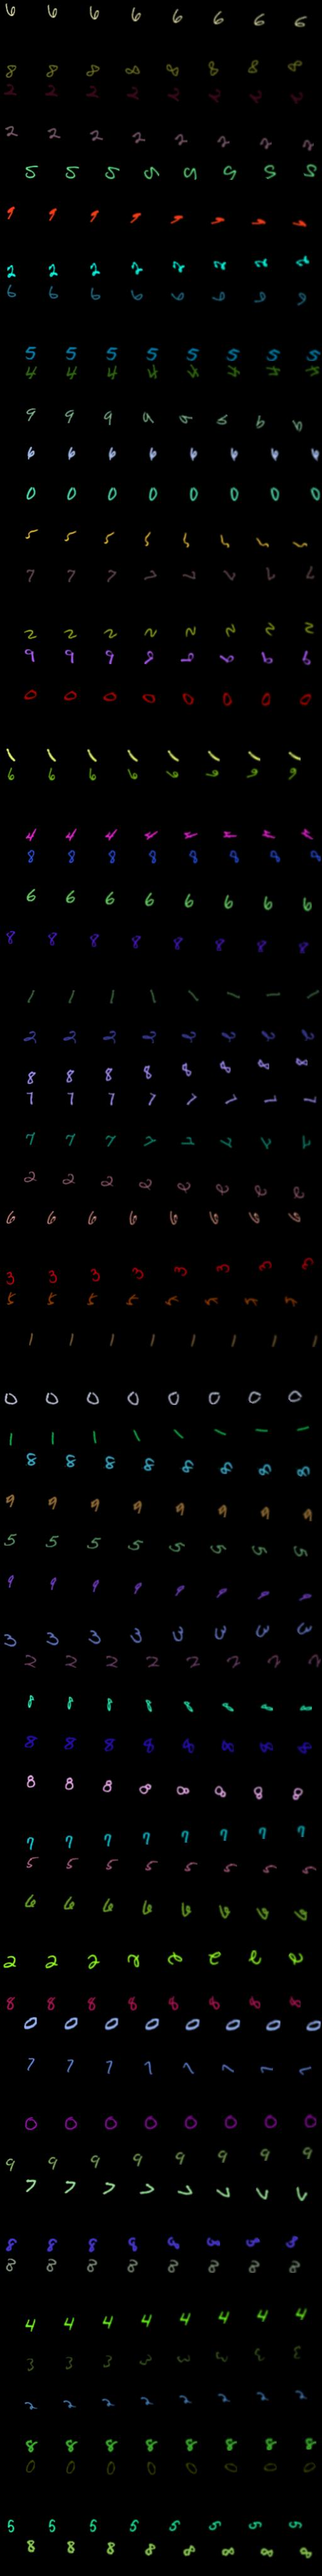
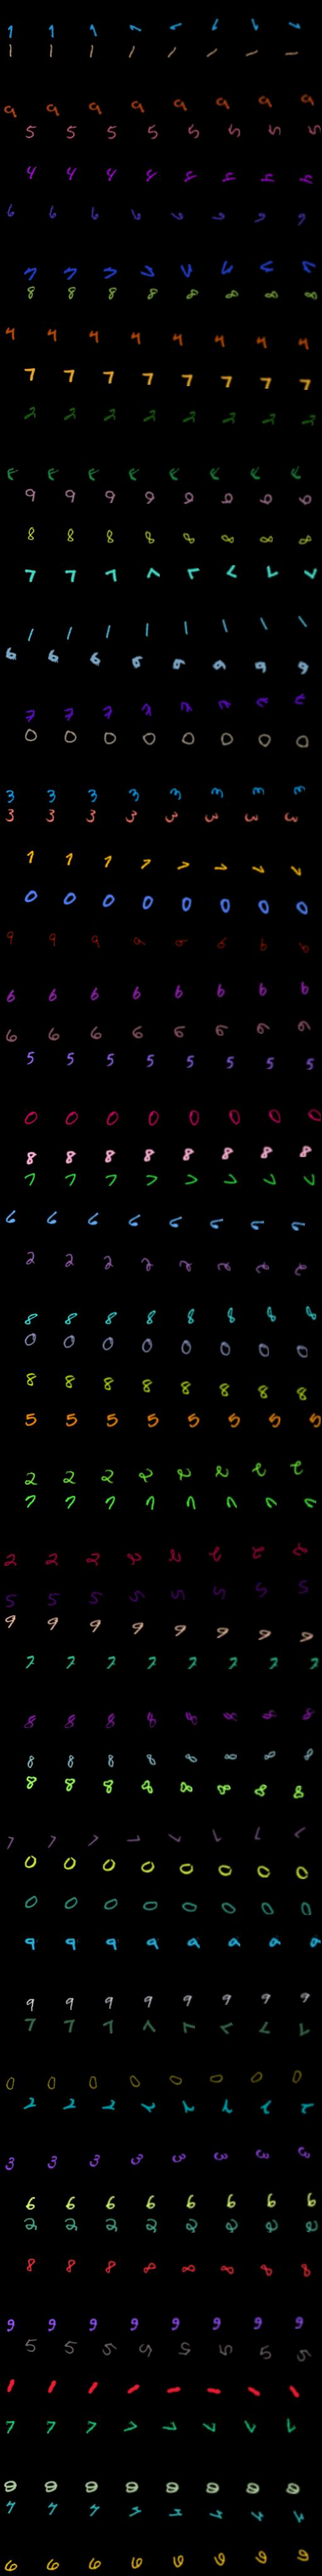
Adding relevant images

diff --git a/vaegan/step_53_wgen.py b/vaegan/step_53_wgen.py
@@ -423,7 +423,7 @@ motion_size=300
 num_class_image=13
 frames=5
 frames_input = 3
-num_class_motion = 7
+num_class_motion = 32
 
 def save_visualization(X, nh_nw=(batch_size,frames_input+frames), save_path='../results/%s/sample.jpg'%(sys.argv[4])):
 	print(X.shape)
